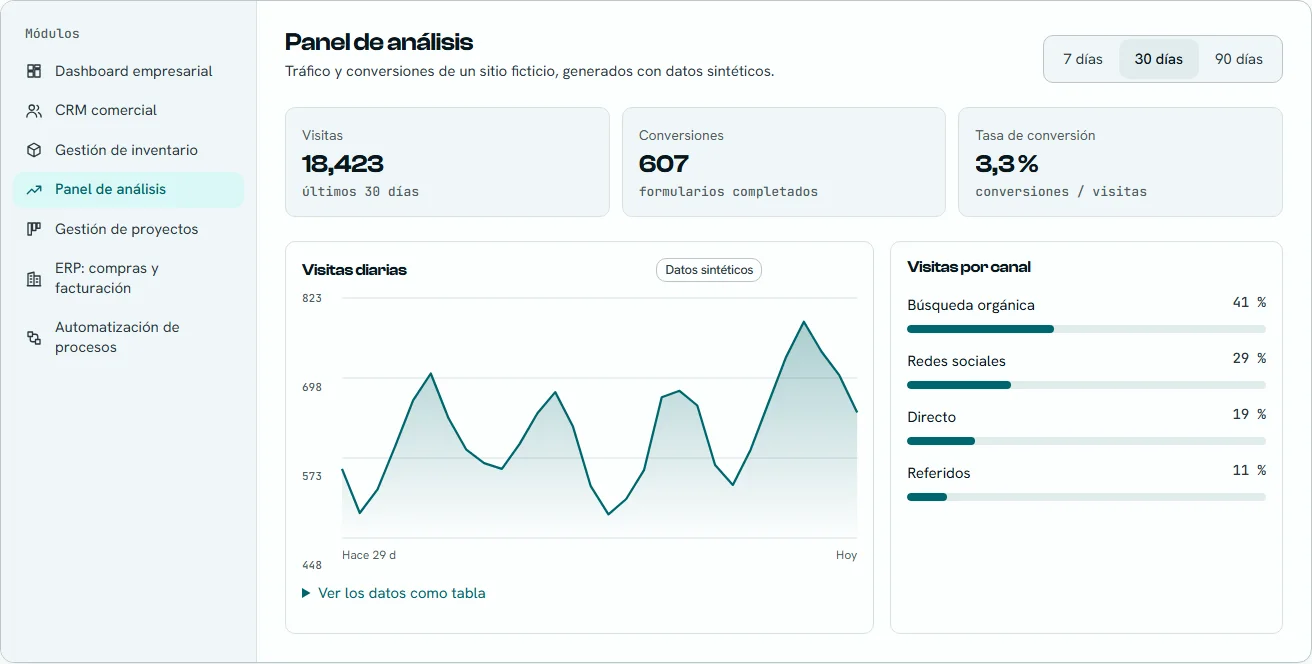
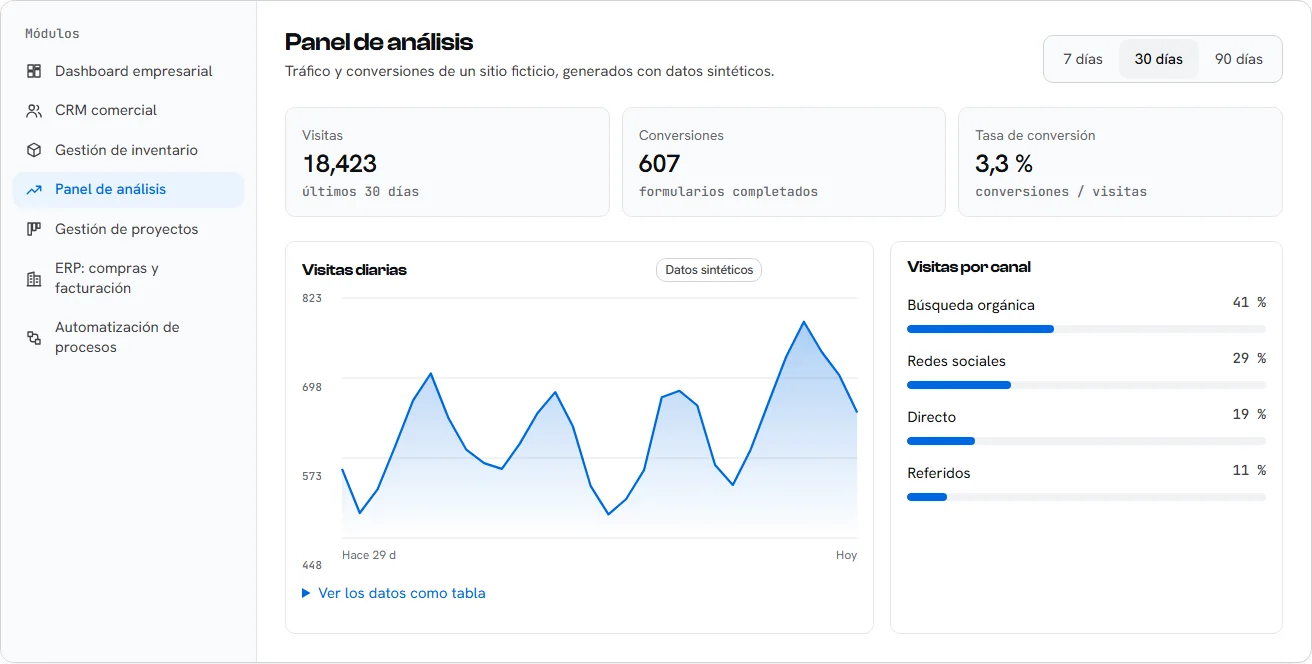
style: paleta neutra con acento azul eléctrico
Blanco puro, grises zinc y negro tinta en lugar del turquesa petróleo;
un único acento azul tomado del león del logo en acciones, enlaces y el
resplandor detrás del producto. Modo oscuro en negro neutro y capturas
del Lab actualizadas.

diff --git a/src/index.html b/src/index.html
@@ -6,14 +6,14 @@
   <base href="/">
   <meta name="viewport" content="width=device-width, initial-scale=1">
   <meta name="description" content="SoftSpark desarrolla páginas web, aplicaciones, sistemas empresariales, ERP, CRM y automatizaciones a medida.">
-  <meta name="theme-color" content="#fcfdfd">
+  <meta name="theme-color" content="#ffffff">
   <meta property="og:site_name" content="SoftSpark">
   <meta property="og:locale" content="es_PE">
   <meta property="og:type" content="website">
   <meta property="og:image:width" content="1200">
   <meta property="og:image:height" content="630">
   <meta name="twitter:card" content="summary_large_image">
-  <script>try{var d=document.documentElement;if(localStorage.getItem('ss-theme')==='dark'){d.dataset.theme='dark';document.querySelector('meta[name=theme-color]').setAttribute('content','#0c1418')}if(window.matchMedia&&matchMedia('(prefers-reduced-motion: no-preference)').matches)d.classList.add('motion-ok')}catch(e){}</script>
+  <script>try{var d=document.documentElement;if(localStorage.getItem('ss-theme')==='dark'){d.dataset.theme='dark';document.querySelector('meta[name=theme-color]').setAttribute('content','#09090b')}if(window.matchMedia&&matchMedia('(prefers-reduced-motion: no-preference)').matches)d.classList.add('motion-ok')}catch(e){}</script>
   <link rel="icon" type="image/x-icon" href="favicon.ico">
   <link rel="icon" type="image/png" sizes="48x48" href="favicon-48.png">
   <link rel="apple-touch-icon" href="apple-touch-icon.png">
@@ -22,7 +22,7 @@
   <link href="https://fonts.googleapis.com/css2?family=Hanken+Grotesk:wght@400;500;600&family=JetBrains+Mono:wght@400;500&display=swap" rel="stylesheet">
   <link rel="preconnect" href="https://api.fontshare.com" crossorigin>
   <link href="https://api.fontshare.com/v2/css?f[]=clash-display@500,600&display=swap" rel="stylesheet">
-  <style>/* Hallmark · theme: custom · idea: "el producto en escena: el software real que construimos, mostrado en grande y listo para probar" · vibe: "un estudio de producto, oscuro donde está el producto, claro donde se lee" · genre: modern-minimal · redesign: full  * paper: white tinted to the lion mark's teal · accent: the lion mark's teal, committed on the lead bento tile and the glow behind the product (two dark stages a page at most) · display: Clash Display · body: Hanken Grotesk · outlier: JetBrains Mono for code and machine values  * hero: Stage (/), a centred headline on a dark rounded stage over the Lab dashboard in perspective, two demos behind it; Banner (/servicios), Banner (/soluciones), Banner (/proyectos), Banner (/lab), Banner (/planes), Banner (/proceso), Banner (/preguntas-frecuentes), Banner (/contacto), Banner (/que-necesito), Banner (/privacidad) · nav: edge-aligned · footer: letter close  * imagery: the product, captured from the Lab · signature: the dashboard rising out of the dark stage, flattening as you scroll · job: hire  * axes: mixed/display-heavy/chromatic-teal · posture: committed · contrast: pass · fold: pass · modes: light+dark · v2.0.0 */ /* Hallmark · pre-emit critique: P5 H5 E4 S4 R4 V5 · weakest: S, a centred hero is the common shape; the perspective product and the side demos make it this studio's */ /* Hallmark · theme override · no ASCII field and no grid behind any section; one teal glow on the dark stages and nothing else · the owner asked for no grids and chose the product-led dark stage */ /* Hallmark · waive 83 · the pictures on the home page are captures of the studio's own software, not photographs · the owner chose a product-led page where the software is the proof */ /* Hallmark · waive 44c · Banner head on the interior pages (servicios, proyectos, planes, proceso, contacto) · each interior page opens straight into its catalogue, table or form on the first screen */ /* Hallmark · waive 79 · Banner head ending above its content band on interior pages · the space under the page head is the gap before the catalogue, not a dead hero */ /* Hallmark · waive 77 · the closing cta band is one head, one line and two actions · it repeats the quote action once per page, after the content */ /* Hallmark · answered F20 · seven demos, five concepts and four facts are the real counts; nothing is invented to fill a row */</style>
+  <style>/* Hallmark · theme: custom · idea: "el producto en escena: el software real que construimos, mostrado en grande y listo para probar" · vibe: "un estudio de producto, oscuro donde está el producto, claro donde se lee" · genre: modern-minimal · redesign: full  * paper: pure white over zinc neutrals · accent: electric blue from the lion mark, committed on actions, links and the glow behind the product (two dark stages a page at most) · display: Clash Display · body: Hanken Grotesk · outlier: JetBrains Mono for code and machine values  * hero: Stage (/), a centred headline on a dark rounded stage over the Lab dashboard in perspective, two demos behind it; Banner (/servicios), Banner (/soluciones), Banner (/proyectos), Banner (/lab), Banner (/planes), Banner (/proceso), Banner (/preguntas-frecuentes), Banner (/contacto), Banner (/que-necesito), Banner (/privacidad) · nav: edge-aligned · footer: letter close  * imagery: the product, captured from the Lab · signature: the dashboard rising out of the dark stage, flattening as you scroll · job: hire  * axes: mixed/display-heavy/neutral-blue · posture: committed · contrast: pass · fold: pass · modes: light+dark · v2.0.0 */ /* Hallmark · pre-emit critique: P5 H5 E4 S4 R4 V5 · weakest: S, a centred hero is the common shape; the perspective product and the side demos make it this studio's */ /* Hallmark · theme override · no ASCII field and no grid behind any section; one teal glow on the dark stages and nothing else · the owner asked for no grids and chose the product-led dark stage */ /* Hallmark · waive 83 · the pictures on the home page are captures of the studio's own software, not photographs · the owner chose a product-led page where the software is the proof */ /* Hallmark · waive 44c · Banner head on the interior pages (servicios, proyectos, planes, proceso, contacto) · each interior page opens straight into its catalogue, table or form on the first screen */ /* Hallmark · waive 79 · Banner head ending above its content band on interior pages · the space under the page head is the gap before the catalogue, not a dead hero */ /* Hallmark · waive 77 · the closing cta band is one head, one line and two actions · it repeats the quote action once per page, after the content */ /* Hallmark · answered F20 · seven demos, five concepts and four facts are the real counts; nothing is invented to fill a row */</style>
 </head>
 <body>
   <app-root></app-root>

diff --git a/src/tokens.css b/src/tokens.css
@@ -1,8 +1,8 @@
 /* Hallmark · theme: custom · idea: "el producto en escena: el software real que construimos, mostrado en grande y listo para probar" · vibe: "un estudio de producto, oscuro donde está el producto, claro donde se lee" · genre: modern-minimal · redesign: full
- * paper: white tinted to the lion mark's teal · accent: the lion mark's teal, committed on the lead bento tile and the glow behind the product (two dark stages a page at most) · display: Clash Display · body: Hanken Grotesk · outlier: JetBrains Mono for code and machine values
+ * paper: pure white over zinc neutrals · accent: electric blue from the lion mark, committed on actions, links and the glow behind the product (two dark stages a page at most) · display: Clash Display · body: Hanken Grotesk · outlier: JetBrains Mono for code and machine values
  * hero: Stage (/), a centred headline on a dark rounded stage over the Lab dashboard in perspective, two demos behind it; Banner (/servicios), Banner (/soluciones), Banner (/proyectos), Banner (/lab), Banner (/planes), Banner (/proceso), Banner (/preguntas-frecuentes), Banner (/contacto), Banner (/que-necesito), Banner (/privacidad) · nav: edge-aligned · footer: letter close
  * imagery: the product, captured from the Lab · signature: the dashboard rising out of the dark stage, flattening as you scroll · job: hire
- * axes: mixed/display-heavy/chromatic-teal · posture: committed · contrast: pass · fold: pass · modes: light+dark · v2.0.0 */
+ * axes: mixed/display-heavy/neutral-blue · posture: committed · contrast: pass · fold: pass · modes: light+dark · v2.0.0 */
 /* Hallmark · pre-emit critique: P5 H5 E4 S4 R4 V5 · weakest: S, a centred hero is the common shape; the perspective product and the side demos make it this studio's */
 /* Hallmark · theme override · no ASCII field and no grid behind any section; one teal glow on the dark stages and nothing else · the owner asked for no grids and chose the product-led dark stage */
 /* Hallmark · waive 83 · the pictures on the home page are captures of the studio's own software, not photographs · the owner chose a product-led page where the software is the proof */
@@ -21,20 +21,20 @@
   --color-error: oklch(52% 0.19 27); --color-success: oklch(50% 0.12 150);
   --container: 1440px; --gutter: 64px; --gap-columns: 32px; --section-gap-s: 120px; --section-gap: 144px; --section-gap-l: 176px;
   --z-base: 1; --z-raised: 10; --z-dropdown: 100; --z-sticky: 200; --z-sticky-nav: 300; --z-modal: 400; --z-toast: 500; --z-tooltip: 600;
-  --color-paper: oklch(99.3% 0.003 200); --color-paper-2: oklch(96.9% 0.008 200); --color-paper-3: oklch(93.6% 0.012 200);
-  --color-ink: oklch(19% 0.025 232); --color-ink-2: oklch(33% 0.024 230); --color-muted: oklch(47% 0.02 226);
-  --color-rule: oklch(90.5% 0.01 210); --color-rule-2: oklch(82% 0.014 210);
-  --color-graphite: oklch(20% 0.024 228); --color-graphite-2: oklch(25.5% 0.026 228); --color-graphite-ink: oklch(94% 0.01 200); --color-graphite-muted: oklch(70% 0.02 210);
-  --color-accent: oklch(46% 0.09 200); --color-accent-2: oklch(82% 0.08 195); --color-accent-wash: oklch(95.5% 0.03 195); --color-accent-ink: oklch(99.3% 0.003 200); --color-focus: oklch(46% 0.09 200);
-  --color-accent-deep: oklch(39% 0.08 203); --color-accent-edge: oklch(33% 0.07 205);
-  --color-field: oklch(37% 0.07 205); --color-field-2: oklch(31% 0.065 207); --color-field-ink: oklch(98.5% 0.006 195); --color-field-muted: oklch(86% 0.03 195);
-  --color-key-face: oklch(99.6% 0.002 200); --color-key-edge: oklch(80% 0.016 210);
+  --color-paper: oklch(100% 0 0); --color-paper-2: oklch(98.4% 0.002 265); --color-paper-3: oklch(96.2% 0.003 265);
+  --color-ink: oklch(16.5% 0.006 265); --color-ink-2: oklch(37% 0.008 265); --color-muted: oklch(52% 0.01 265);
+  --color-rule: oklch(92.5% 0.003 265); --color-rule-2: oklch(86.5% 0.005 265);
+  --color-graphite: oklch(16.5% 0.006 265); --color-graphite-2: oklch(22% 0.007 265); --color-graphite-ink: oklch(97% 0.002 265); --color-graphite-muted: oklch(72% 0.008 265);
+  --color-accent: oklch(54% 0.2 258); --color-accent-2: oklch(76% 0.13 240); --color-accent-wash: oklch(96.5% 0.02 258); --color-accent-ink: oklch(100% 0 0); --color-focus: oklch(54% 0.2 258);
+  --color-accent-deep: oklch(48% 0.19 260); --color-accent-edge: oklch(41% 0.17 262);
+  --color-field: oklch(16.5% 0.006 265); --color-field-2: oklch(21% 0.008 265); --color-field-ink: oklch(98% 0.002 265); --color-field-muted: oklch(74% 0.008 265);
+  --color-key-face: oklch(100% 0 0); --color-key-edge: oklch(84% 0.005 265);
   --font-heading: "Clash Display", "Hanken Grotesk", system-ui, sans-serif; --font-display: "Hanken Grotesk", system-ui, sans-serif; --font-body: "Hanken Grotesk", system-ui, sans-serif;
   --font-outlier: "JetBrains Mono", ui-monospace, monospace;
   --radius-card: 14px; --radius-input: 10px; --radius-pill: 999px;
-  --rule-hair: 1px; --shadow-card: 0 1px 2px oklch(19% 0.025 232 / 0.06);
-  --shadow-key: 0 3px 0 0 var(--color-key-edge), 0 6px 8px -4px oklch(19% 0.025 232 / 0.24), inset 0 1px 0 oklch(100% 0 0 / 0.9);
-  --shadow-key-accent: 0 3px 0 0 var(--color-accent-edge), 0 6px 10px -4px oklch(30% 0.07 205 / 0.45), inset 0 1px 0 oklch(100% 0 0 / 0.2);
-  --shadow-key-press: inset 0 1px 2px oklch(19% 0.025 232 / 0.16);
+  --rule-hair: 1px; --shadow-card: 0 1px 2px oklch(16.5% 0.006 265 / 0.06);
+  --shadow-key: 0 3px 0 0 var(--color-key-edge), 0 6px 8px -4px oklch(16.5% 0.006 265 / 0.18), inset 0 1px 0 oklch(100% 0 0 / 0.9);
+  --shadow-key-accent: 0 3px 0 0 var(--color-accent-edge), 0 6px 10px -4px oklch(40% 0.17 260 / 0.4), inset 0 1px 0 oklch(100% 0 0 / 0.2);
+  --shadow-key-press: inset 0 1px 2px oklch(16.5% 0.006 265 / 0.16);
   --tracking-display: -0.02em; --display-weight: 600;
 }

diff --git a/src/styles.scss b/src/styles.scss
@@ -39,13 +39,13 @@
   --brand-gradient-soft: var(--color-paper-2);
   --text-gradient: var(--color-ink);
   --mesh: none;
-  --scrim: oklch(19% 0.025 232 / 0.35);
+  --scrim: oklch(16.5% 0.006 265 / 0.35);
   --on-strong: var(--color-accent-ink);
-  --header-bg: oklch(99.3% 0.003 200 / 0.92);
+  --header-bg: oklch(100% 0 0 / 0.85);
 
   --shadow-1: var(--shadow-card);
-  --shadow-2: 0 8px 24px -12px oklch(19% 0.025 232 / 0.18);
-  --shadow-3: 0 16px 40px -20px oklch(19% 0.025 232 / 0.24);
+  --shadow-2: 0 8px 24px -12px oklch(16.5% 0.006 265 / 0.18);
+  --shadow-3: 0 16px 40px -20px oklch(16.5% 0.006 265 / 0.24);
   --shadow-glow: var(--shadow-2);
   --shadow-btn: var(--shadow-key);
   --shadow-btn-hover: var(--shadow-key);
@@ -101,34 +101,34 @@
 /* Modo oscuro: misma tonalidad, papel grafito, elevación por luminosidad y sin sombras. */
 :root[data-theme='dark'] {
   color-scheme: dark;
-  --color-paper: oklch(17% 0.018 222);
-  --color-paper-2: oklch(20.5% 0.02 222);
-  --color-paper-3: oklch(24% 0.022 222);
-  --color-key-face: oklch(22% 0.02 222);
-  --color-key-edge: oklch(13% 0.015 222);
-  --color-ink: oklch(95% 0.008 200);
-  --color-ink-2: oklch(83% 0.014 205);
-  --color-muted: oklch(71% 0.018 210);
-  --color-rule: oklch(30% 0.02 218);
-  --color-rule-2: oklch(38% 0.022 216);
-  --color-accent: oklch(76% 0.1 195);
-  --color-accent-deep: oklch(82% 0.09 195);
-  --color-accent-edge: oklch(58% 0.09 198);
-  --color-accent-wash: oklch(27% 0.045 205);
-  --color-accent-ink: oklch(17% 0.018 222);
-  --color-focus: oklch(80% 0.1 195);
-  --color-field: oklch(30% 0.055 205);
-  --color-field-2: oklch(26% 0.05 207);
-  --color-field-ink: oklch(96% 0.01 195);
-  --color-field-muted: oklch(84% 0.03 195);
+  --color-paper: oklch(14.5% 0.004 265);
+  --color-paper-2: oklch(18% 0.005 265);
+  --color-paper-3: oklch(22% 0.006 265);
+  --color-key-face: oklch(20% 0.005 265);
+  --color-key-edge: oklch(11% 0.004 265);
+  --color-ink: oklch(97% 0.002 265);
+  --color-ink-2: oklch(84% 0.005 265);
+  --color-muted: oklch(70% 0.008 265);
+  --color-rule: oklch(26% 0.006 265);
+  --color-rule-2: oklch(34% 0.008 265);
+  --color-accent: oklch(72% 0.15 250);
+  --color-accent-deep: oklch(78% 0.13 248);
+  --color-accent-edge: oklch(52% 0.18 258);
+  --color-accent-wash: oklch(24% 0.05 262);
+  --color-accent-ink: oklch(14.5% 0.004 265);
+  --color-focus: oklch(76% 0.14 248);
+  --color-field: oklch(20% 0.006 265);
+  --color-field-2: oklch(24% 0.007 265);
+  --color-field-ink: oklch(97% 0.002 265);
+  --color-field-muted: oklch(76% 0.008 265);
   --color-success: oklch(72% 0.13 150);
   --color-error: oklch(70% 0.15 27);
   --ok-soft: oklch(26% 0.04 150);
   --warn: oklch(80% 0.11 85);
   --warn-soft: oklch(27% 0.04 85);
   --danger-soft: oklch(27% 0.04 27);
-  --header-bg: oklch(17% 0.018 222 / 0.92);
-  --scrim: oklch(8% 0.01 222 / 0.6);
+  --header-bg: oklch(14.5% 0.004 265 / 0.85);
+  --scrim: oklch(6% 0.004 265 / 0.6);
   --shadow-card: inset 0 0 0 1px var(--color-rule);
   --shadow-1: none;
   --shadow-2: none;

diff --git a/src/app/pages/home/home.scss b/src/app/pages/home/home.scss
@@ -1,11 +1,11 @@
 /* Hallmark · home · theme: custom · idea: the product on stage · see src/tokens.css for the full stamp */
 
 :host {
-  --stage-bg: oklch(17.5% 0.03 222);
-  --stage-ink: oklch(97% 0.008 200);
-  --stage-muted: oklch(76% 0.025 205);
+  --stage-bg: oklch(13% 0.006 265);
+  --stage-ink: oklch(98% 0.002 265);
+  --stage-muted: oklch(74% 0.008 265);
   --stage-line: oklch(100% 0 0 / 0.1);
-  --stage-glow: oklch(62% 0.11 192);
+  --stage-glow: oklch(58% 0.2 258);
   --tile-radius: 22px;
 }
 
@@ -45,7 +45,7 @@
 }
 
 :host-context([data-theme='dark']) .stage {
-  --stage-bg: oklch(21% 0.032 220);
+  --stage-bg: oklch(17% 0.006 265);
   border: var(--rule-hair) solid var(--stage-line);
 }
 
@@ -85,13 +85,13 @@
 }
 
 .btn-glow {
-  --btn-bg: var(--color-accent-2);
-  --btn-fg: oklch(18% 0.03 222);
-  --btn-border: oklch(70% 0.09 195);
+  --btn-bg: oklch(100% 0 0);
+  --btn-fg: oklch(16.5% 0.006 265);
+  --btn-border: oklch(100% 0 0);
   --btn-shadow: 0 0 0 1px oklch(100% 0 0 / 0.08), 0 10px 32px -8px color-mix(in oklab, var(--stage-glow) 80%, transparent);
 
   &:hover:not(:disabled) {
-    --btn-bg: oklch(87% 0.07 195);
+    --btn-bg: oklch(93% 0.003 265);
   }
 
   &:focus-visible {
@@ -149,7 +149,7 @@
   border-radius: 14px 14px 0 0;
   border: 1px solid oklch(100% 0 0 / 0.14);
   border-bottom: 0;
-  box-shadow: 0 40px 120px -20px oklch(5% 0.03 220 / 0.8);
+  box-shadow: 0 40px 120px -20px oklch(4% 0.01 265 / 0.85);
   transform-origin: 50% 100%;
 }
 
@@ -279,14 +279,14 @@
     border: var(--rule-hair) solid var(--color-rule-2);
     border-right: 0;
     border-bottom: 0;
-    box-shadow: 0 20px 48px -20px oklch(19% 0.025 232 / 0.35);
+    box-shadow: 0 20px 48px -20px oklch(16.5% 0.006 265 / 0.35);
     transition: transform var(--dur-short) var(--ease-out);
   }
 }
 
-/* El primero, protagonista: turquesa de marca. */
+/* El primero, protagonista: negro con el resplandor azul de marca. */
 .t0 .tile-link {
-  background: var(--color-field);
+  background: radial-gradient(70% 60% at 80% 100%, color-mix(in oklab, var(--stage-glow) 45%, transparent), transparent 70%), var(--color-field);
   border-color: transparent;
   color: var(--color-field-ink);
 
@@ -296,7 +296,7 @@
 
   .tile-media img {
     border-color: oklch(100% 0 0 / 0.18);
-    box-shadow: 0 24px 60px -20px oklch(10% 0.04 220 / 0.7);
+    box-shadow: 0 24px 60px -20px oklch(4% 0.01 265 / 0.7);
   }
 
   &:focus-visible {
@@ -400,7 +400,7 @@
     width: 100%;
     border: var(--rule-hair) solid var(--color-rule-2);
     border-radius: 14px;
-    box-shadow: 0 40px 80px -32px oklch(19% 0.025 232 / 0.4);
+    box-shadow: 0 40px 80px -32px oklch(16.5% 0.006 265 / 0.4);
   }
 
   .phone {
@@ -408,9 +408,9 @@
     left: 0;
     bottom: 0;
     width: clamp(110px, 24%, 200px);
-    border: 6px solid oklch(18% 0.02 230);
+    border: 6px solid oklch(16.5% 0.006 265);
     border-radius: 26px;
-    box-shadow: 0 30px 60px -20px oklch(19% 0.025 232 / 0.5);
+    box-shadow: 0 30px 60px -20px oklch(16.5% 0.006 265 / 0.5);
   }
 }
 

diff --git a/src/app/core/theme.service.ts b/src/app/core/theme.service.ts
@@ -3,7 +3,7 @@ import { isPlatformBrowser } from '@angular/common';
 
 export type Theme = 'dark' | 'light';
 
-const THEME_COLOR: Record<Theme, string> = { light: '#fcfdfd', dark: '#0c1418' };
+const THEME_COLOR: Record<Theme, string> = { light: '#ffffff', dark: '#09090b' };
 
 /**
  * Tema claro por defecto. La preferencia se guarda en localStorage y un script
